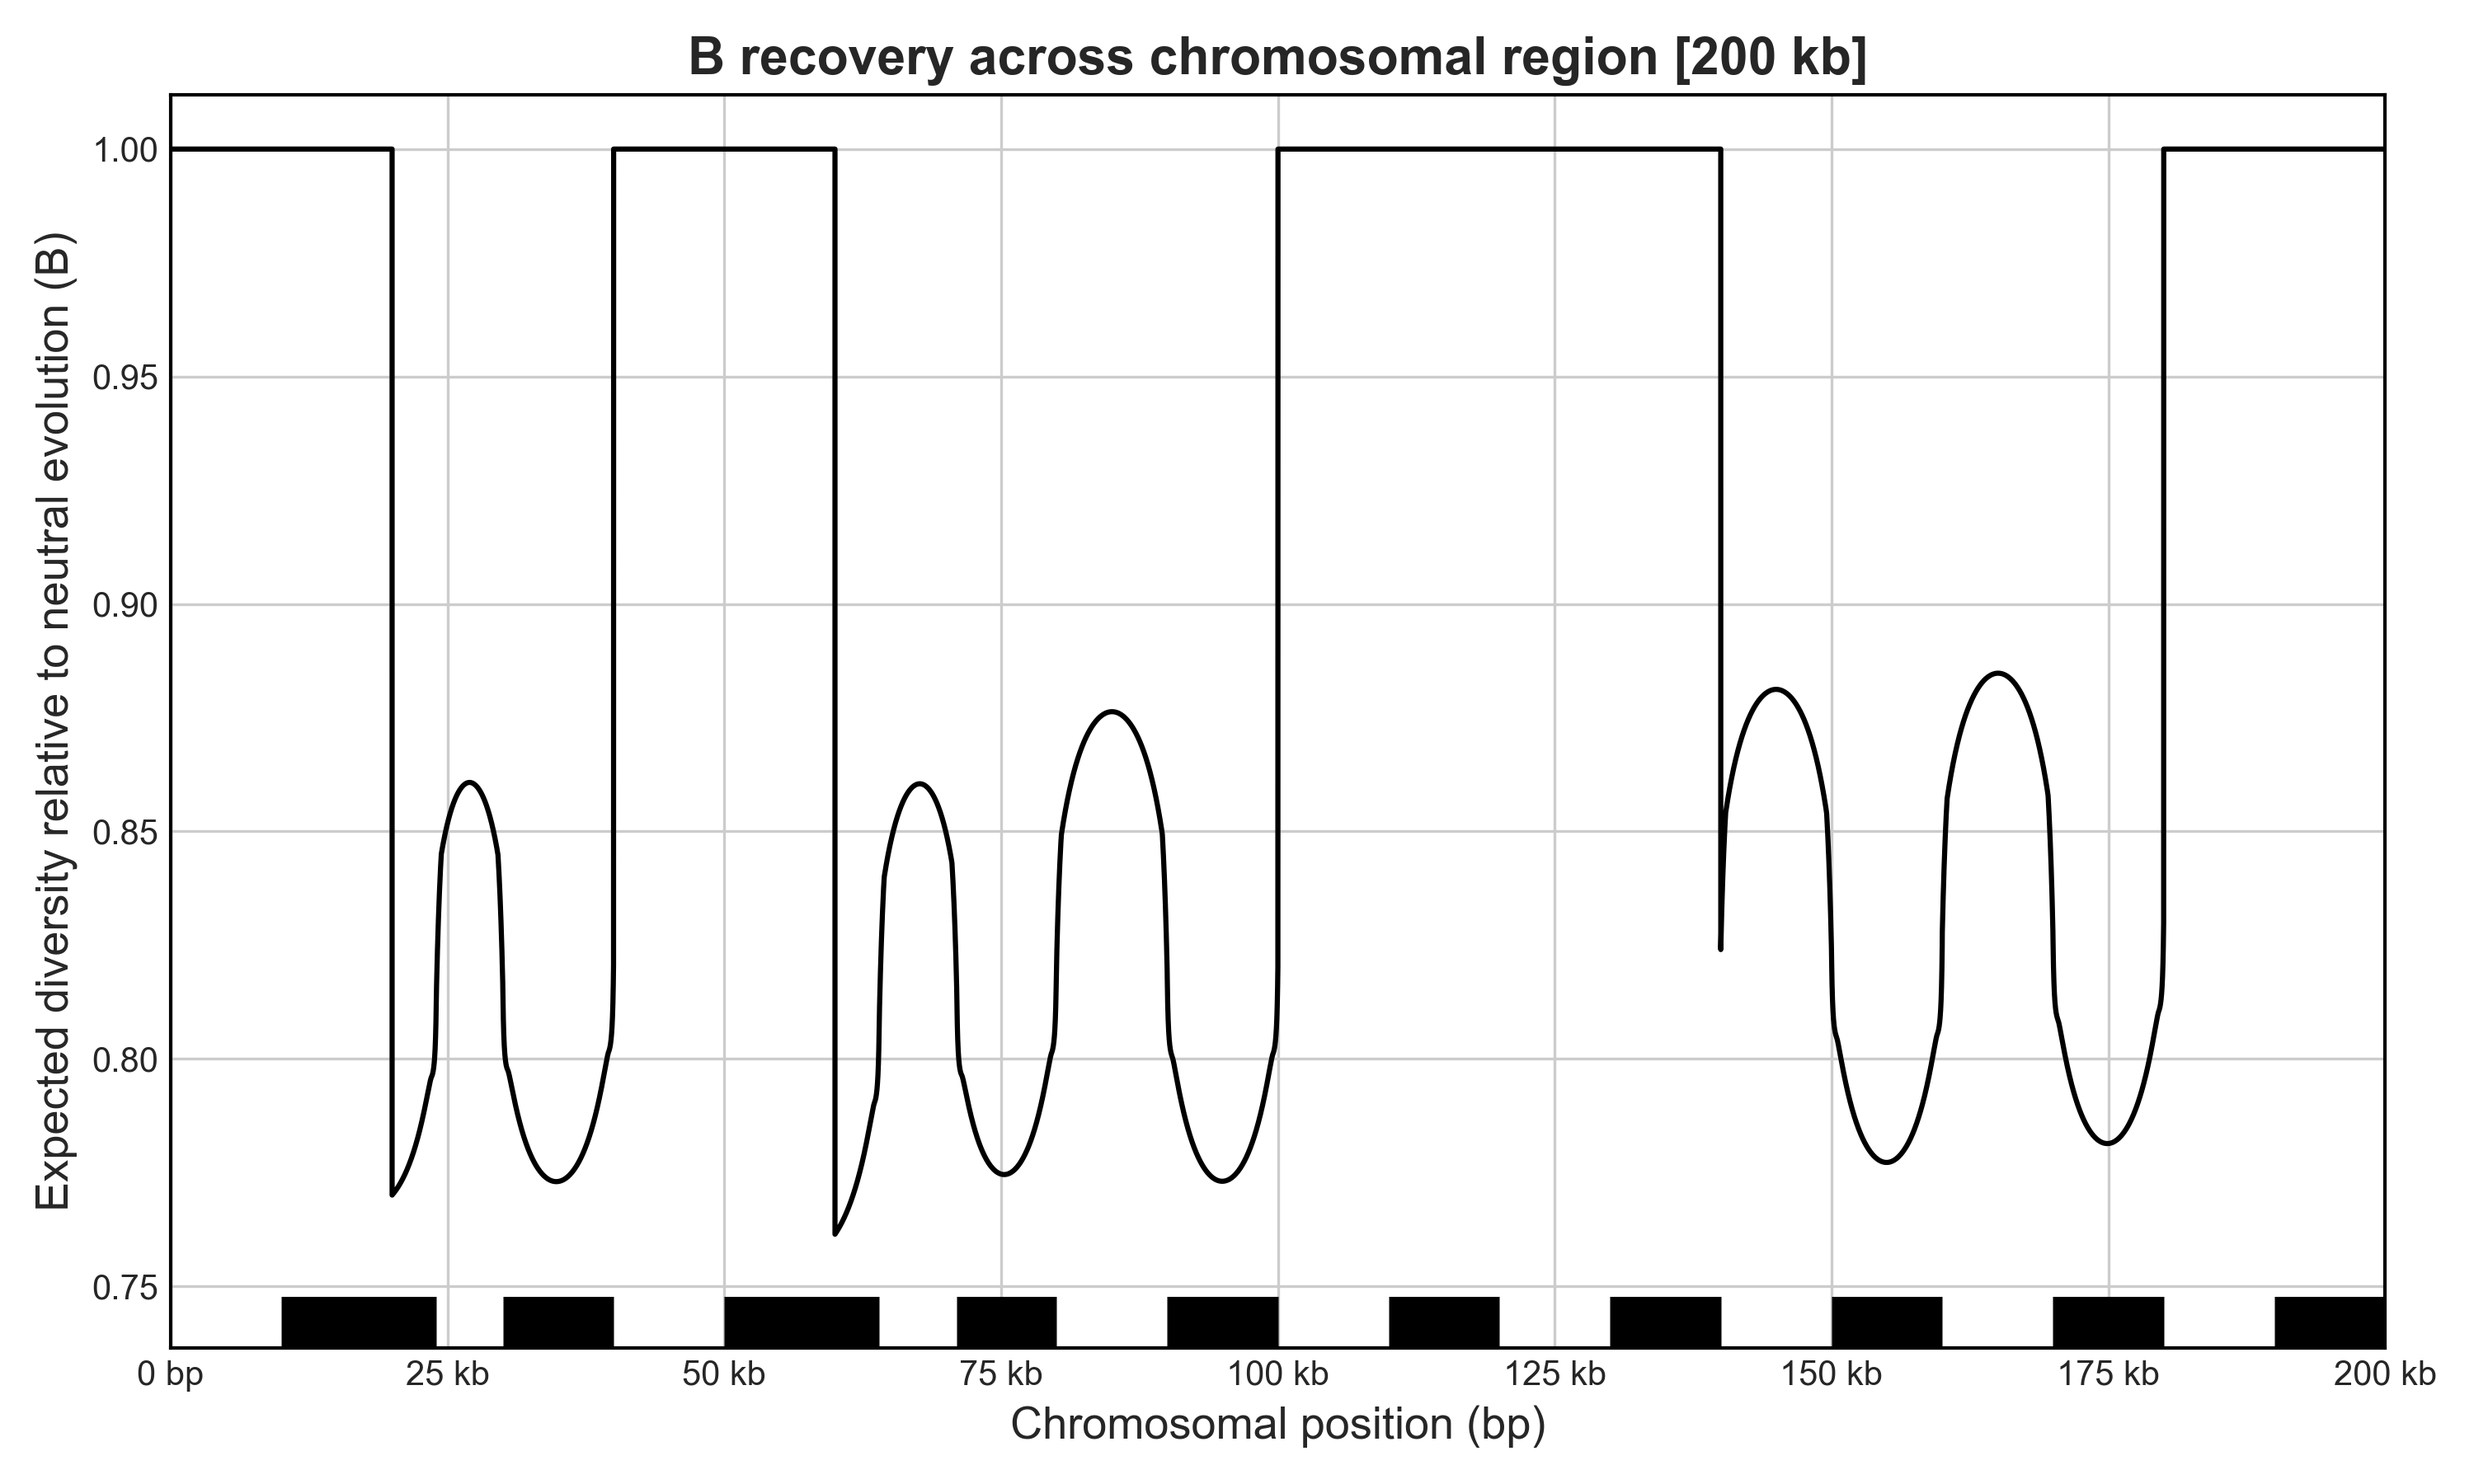
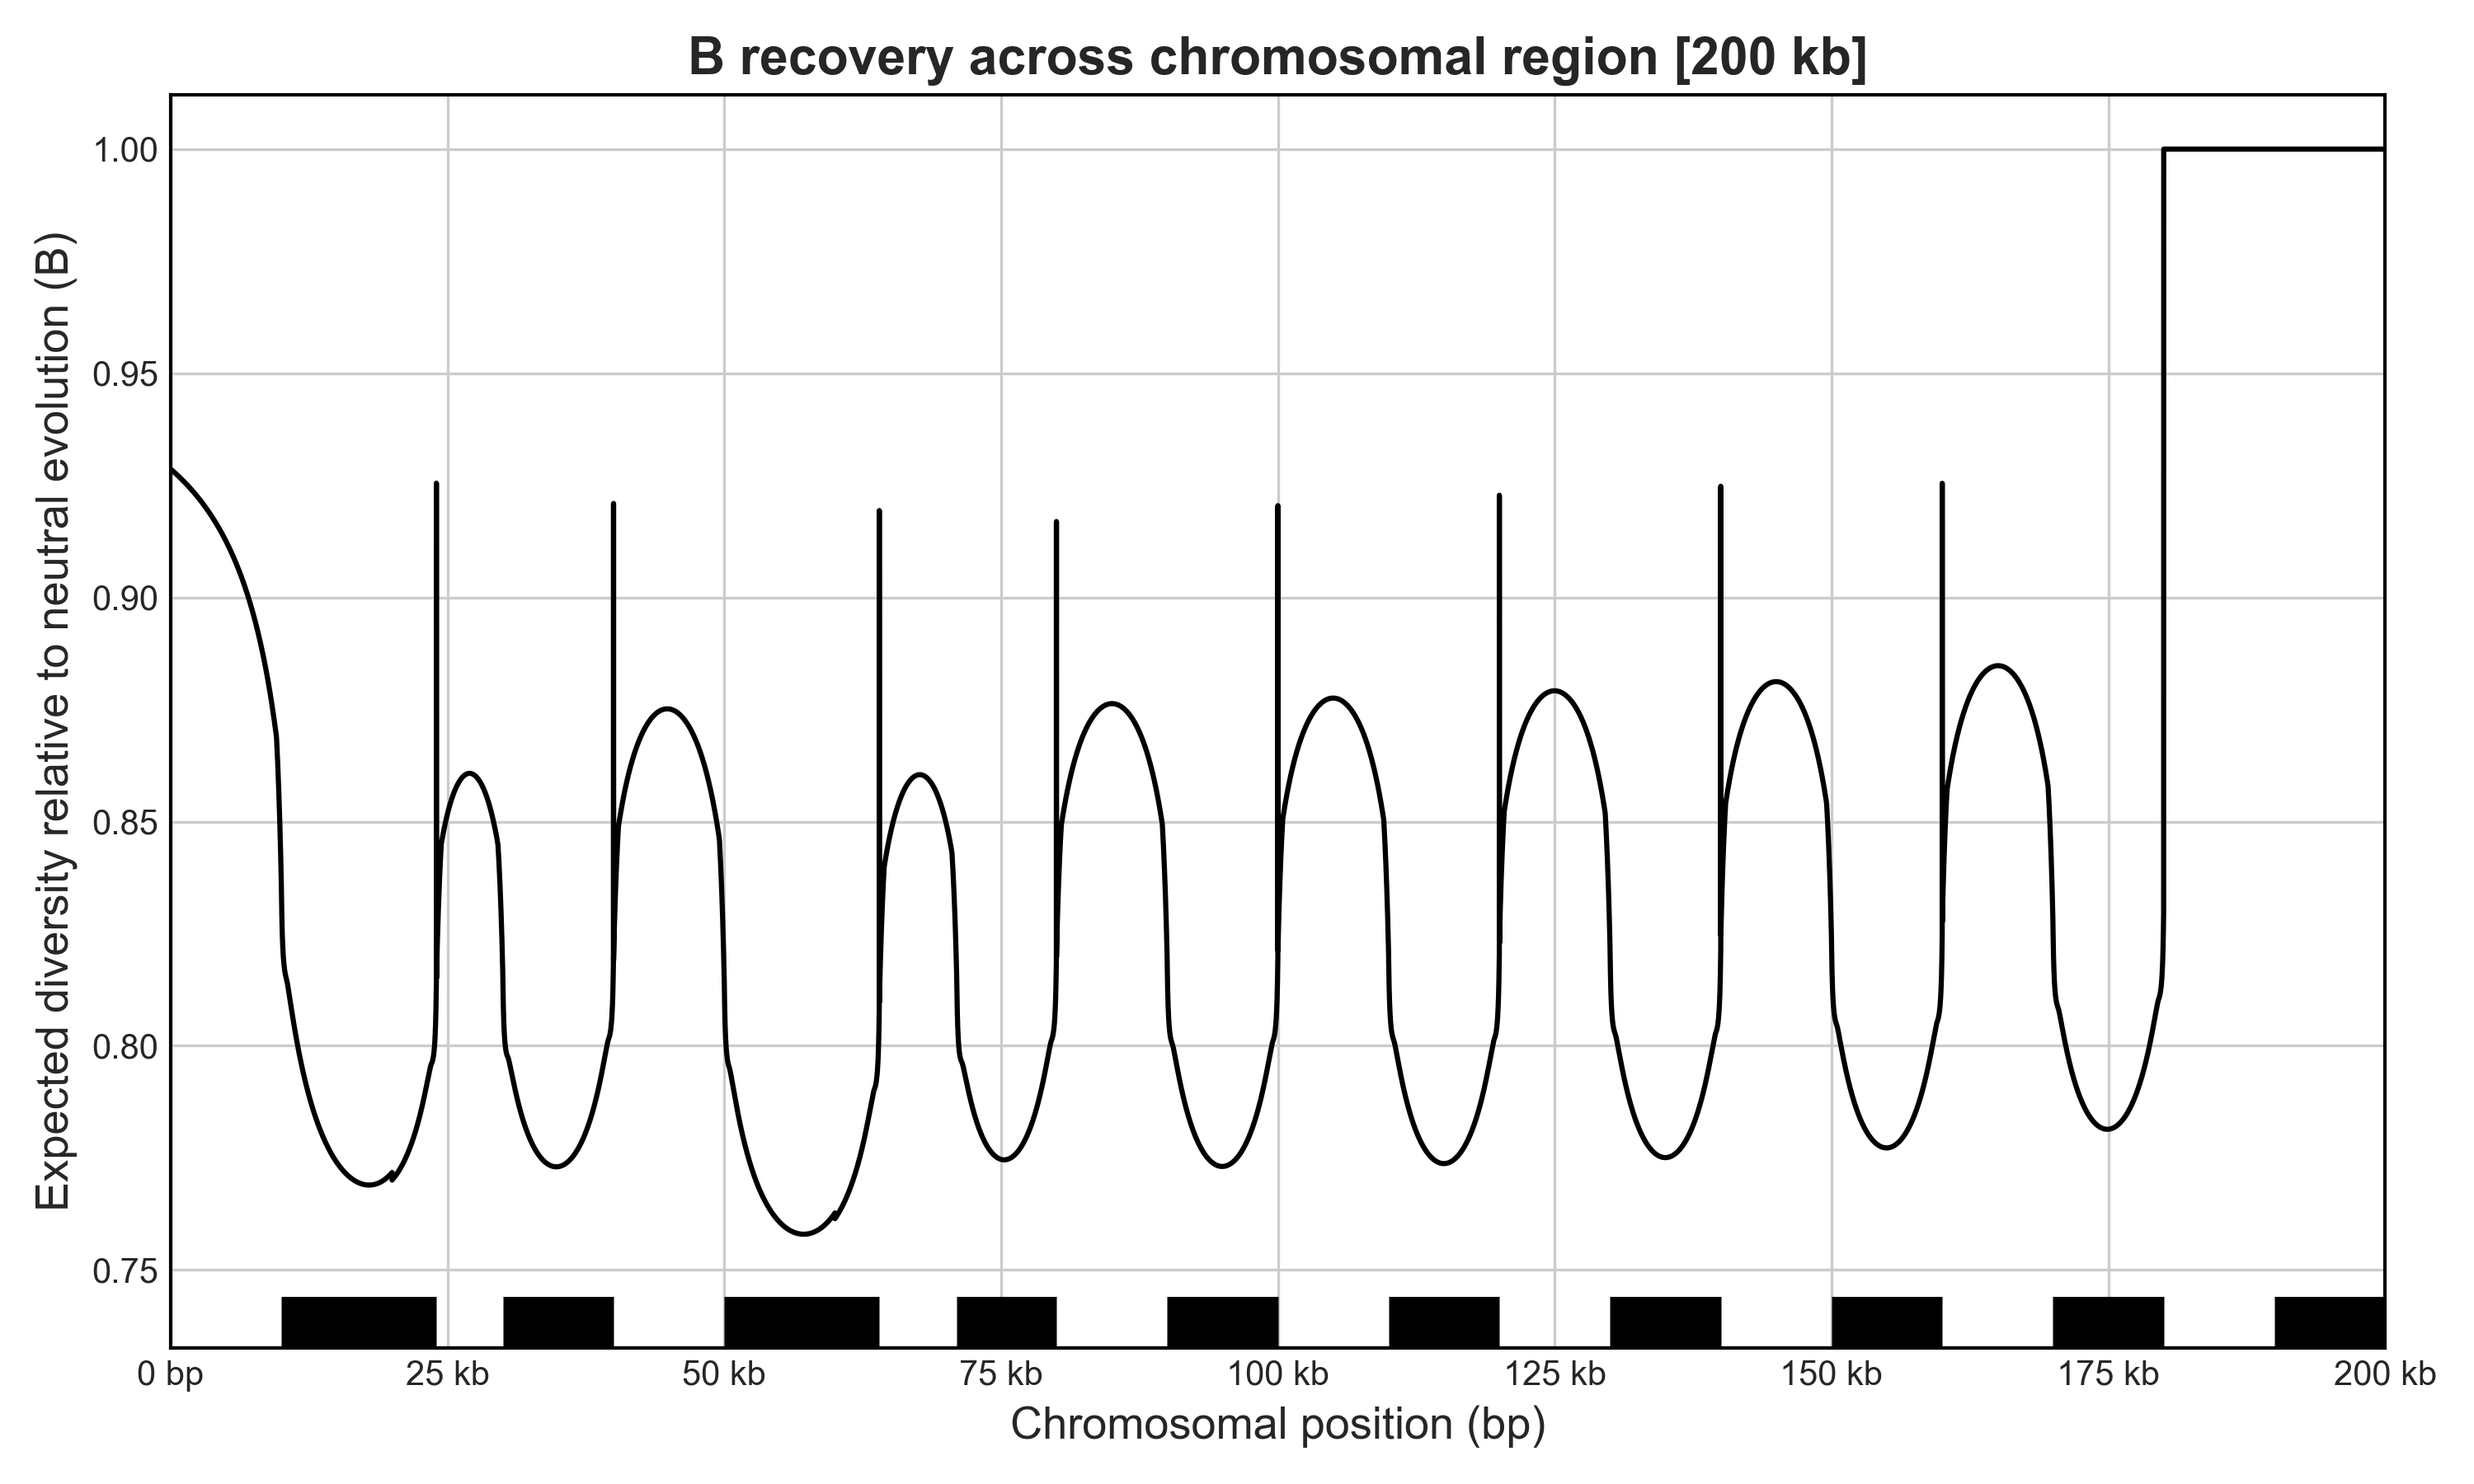
Improvements to gene sites B calc

diff --git a/helperScripts/RunBCalcScripts/process_single_chunk.py b/helperScripts/RunBCalcScripts/process_single_chunk.py
@@ -41,7 +41,7 @@ def process_single_chunk(chunk_num, chunk_size, blockstart, blockend, chr_start,
     
 
 
-    genes_in_this_chunk_mask = np.logical_and(precise_blockstart < chunk_end, precise_blockend > chunk_start)
+    genes_in_this_chunk_mask = np.logical_and(precise_blockstart <= chunk_end, precise_blockend >= chunk_start)
     this_chunk_blockstart = precise_blockstart[genes_in_this_chunk_mask]
     this_chunk_blockend = precise_blockend[genes_in_this_chunk_mask]
 
@@ -52,21 +52,20 @@ def process_single_chunk(chunk_num, chunk_size, blockstart, blockend, chr_start,
     
 
     agg_gene_B = np.ones_like(np.arange(0,chunk_size), dtype=np.float64)
-    
     for gene_idx in np.arange(len(this_chunk_blockstart_inchunk)):
         gene_blockstart = this_chunk_blockstart[gene_idx]
         gene_blockend = this_chunk_blockend[gene_idx]
-        gpos_in_chunk = np.arange(this_chunk_blockstart_inchunk[gene_idx],this_chunk_blockend_inchunk[gene_idx]+1)
+        gpos_in_chunk = np.arange(this_chunk_blockstart_inchunk[gene_idx],this_chunk_blockend_inchunk[gene_idx])
         left_block_lengths =  gpos_in_chunk - gene_blockstart
         right_block_lengths = gene_blockend - gpos_in_chunk
         left_block_B = calculateB_linear(distance_to_element = 1, length_of_element = left_block_lengths)
         right_block_B = calculateB_linear(distance_to_element = 1, length_of_element = right_block_lengths)
-        print(len(left_block_B), len(right_block_B), "hai")
         gene_sites = gpos_in_chunk-chunk_start
         # print("G2", gene_sites)
+        if chunk_num == 6:
+            print("heii", agg_gene_B, len(gene_sites), len(left_block_B))
         np.multiply.at(agg_gene_B, gene_sites, left_block_B)
         np.multiply.at(agg_gene_B, gene_sites, right_block_B)
-    print("geevalsstart", len(agg_gene_B))
 
 
             # print("gene_sites", len(gene_sites))
@@ -81,7 +80,7 @@ def process_single_chunk(chunk_num, chunk_size, blockstart, blockend, chr_start,
     # np.multiply.at(aggregated_B, gene_sites, in_gene_sites_B)
 
 
-        
+
 
 
 
@@ -166,8 +165,7 @@ def process_single_chunk(chunk_num, chunk_size, blockstart, blockend, chr_start,
     aggregated_B = np.ones_like(unique_indices, dtype=np.float64)
     # np.multiply(aggregated_B, )
 
-    # if chunk_num == 3:
-    #     print("heii", aggregated_B)
+
     # np.multiply.at(aggregated_B, gene_sites, in_gene_sites_B)
     np.multiply.at(aggregated_B, inverse_indices, flank_B) # Multiplicative sum of B calculated at a given site from multiple elements
 
